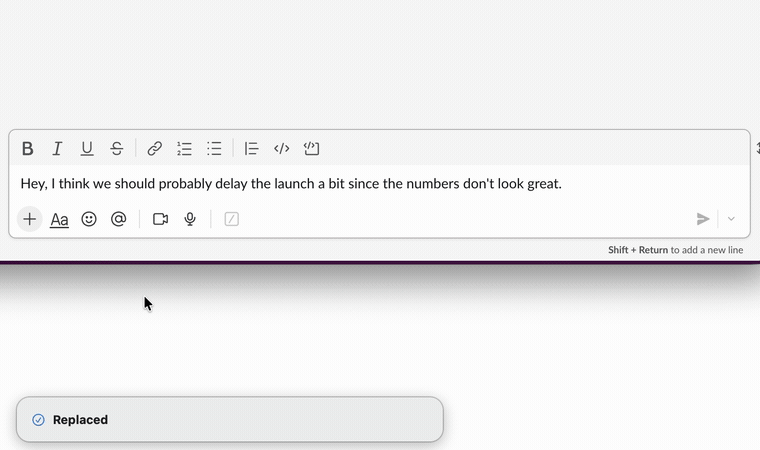
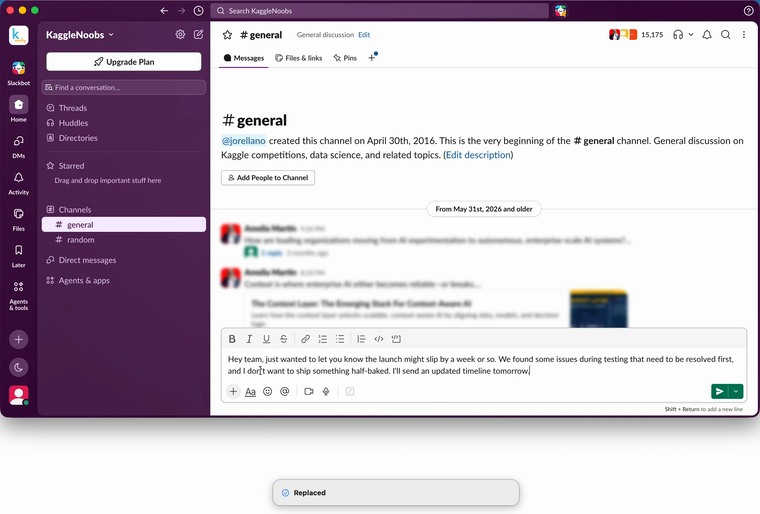
Demo: new Slack capture showing both shortcuts
Replaces the 8-second single-shortcut GIF with a 19-second capture that
shows the whole interaction model: ⌥R rewrites a message in place, then
⌥⇧R opens the style list and 2 picks Professional. The number keys were
already live and already drawn down each row, and nothing anywhere
advertised them — the panel now says so, and this is the other half of
saying it.

Built with scripts/make_demo_gif.py, no --key: the recording already has
the keycaps burned in. 760x514, 12fps, 239 frames, 604 KB.

The aspect changed, 760x450 to 760x514, so the hardcoded width/height on
the website img moved with it. CSS is width:100%/height:auto, so those
attributes only guard layout shift — wrong ones would have shifted the
hero on every load rather than distorting anything, which is the kind of
thing nobody reports.

demo-poster.png/.webp regenerated from the same recording at the new
aspect. They are what prefers-reduced-motion is served, so leaving them
would have shown that audience a still of a demo the page no longer runs.

Third-party messages in the channel history are blurred in the source.

Alt text and captions on both surfaces now describe both shortcuts rather
than a sentence that is no longer in the recording.

diff --git a/website/index.html b/website/index.html
@@ -150,15 +150,17 @@
         <picture>
           <source media="(prefers-reduced-motion: reduce)" type="image/webp" srcset="./assets/demo-poster.webp">
           <source media="(prefers-reduced-motion: reduce)" srcset="./assets/demo-poster.png">
-          <img src="./assets/demo.gif" width="760" height="450" decoding="async"
-               alt="The Slack message composer holding the line &quot;hey so i think we should probaly push the launch back a bit becuase the numbers dont look great&quot;. The line is selected, Option-R is pressed, and Everest's floating panel streams a corrected version that then replaces the message in the composer.">
+          <img src="./assets/demo.gif" width="760" height="514" decoding="async"
+               alt="The Slack message composer holding a rushed line about a launch slipping. It is selected, Option-R is pressed, and Everest's floating panel streams a corrected version that replaces the message in place. A second message is then rewritten with Option-Shift-R, which opens a list of styles, and pressing 2 picks Professional.">
         </picture>
       </div>
       <figcaption>
         <span class="tag">Real capture</span>
-        <span class="cap-text">A real capture in Slack. Select what you wrote, press <span class="kbds"><kbd>⌥</kbd><kbd>R</kbd></span>, watch the
-        rewrite stream into the panel, and it replaces the message in place. <span class="kbds"><kbd>⌘</kbd><kbd>Z</kbd></span> puts the
-        original back the way it always does.</span>
+        <span class="cap-text">A real capture in Slack, both shortcuts, nothing sped up. Select what you wrote and press
+        <span class="kbds"><kbd>⌥</kbd><kbd>R</kbd></span> — the rewrite streams into the panel and replaces the message in place. The second
+        one uses <span class="kbds"><kbd>⌥</kbd><kbd>⇧</kbd><kbd>R</kbd></span>, which lists the styles; press <kbd>2</kbd> to take
+        Professional without reaching for the mouse. <span class="kbds"><kbd>⌘</kbd><kbd>Z</kbd></span> puts the original back the way it
+        always does.</span>
       </figcaption>
     </figure>
     </div>

diff --git a/README.md b/README.md
@@ -16,9 +16,9 @@ No account, no server, no telemetry. Unplug the network and it still works.
 
 <br><br>
 
-<img src="docs/assets/demo.gif" width="700" alt="A badly written message in the Slack composer. Pressing Option-R replaces it with a corrected version while a small floating panel shows the progress.">
+<img src="docs/assets/demo.gif" width="700" alt="A rushed message in the Slack composer. Pressing Option-R replaces it with a corrected version while a small floating panel shows the progress. A second message is rewritten with Option-Shift-R, which lists the styles, and pressing 2 picks Professional.">
 
-<sub>Real capture in Slack, not a mockup. <code>⌘Z</code> puts the original back.</sub>
+<sub>Real capture in Slack, not a mockup. Both shortcuts: <code>⌥R</code> rewrites straight away, <code>⌥⇧R</code> lists the styles and a number key picks one. <code>⌘Z</code> puts the original back.</sub>
 
 </div>
 
